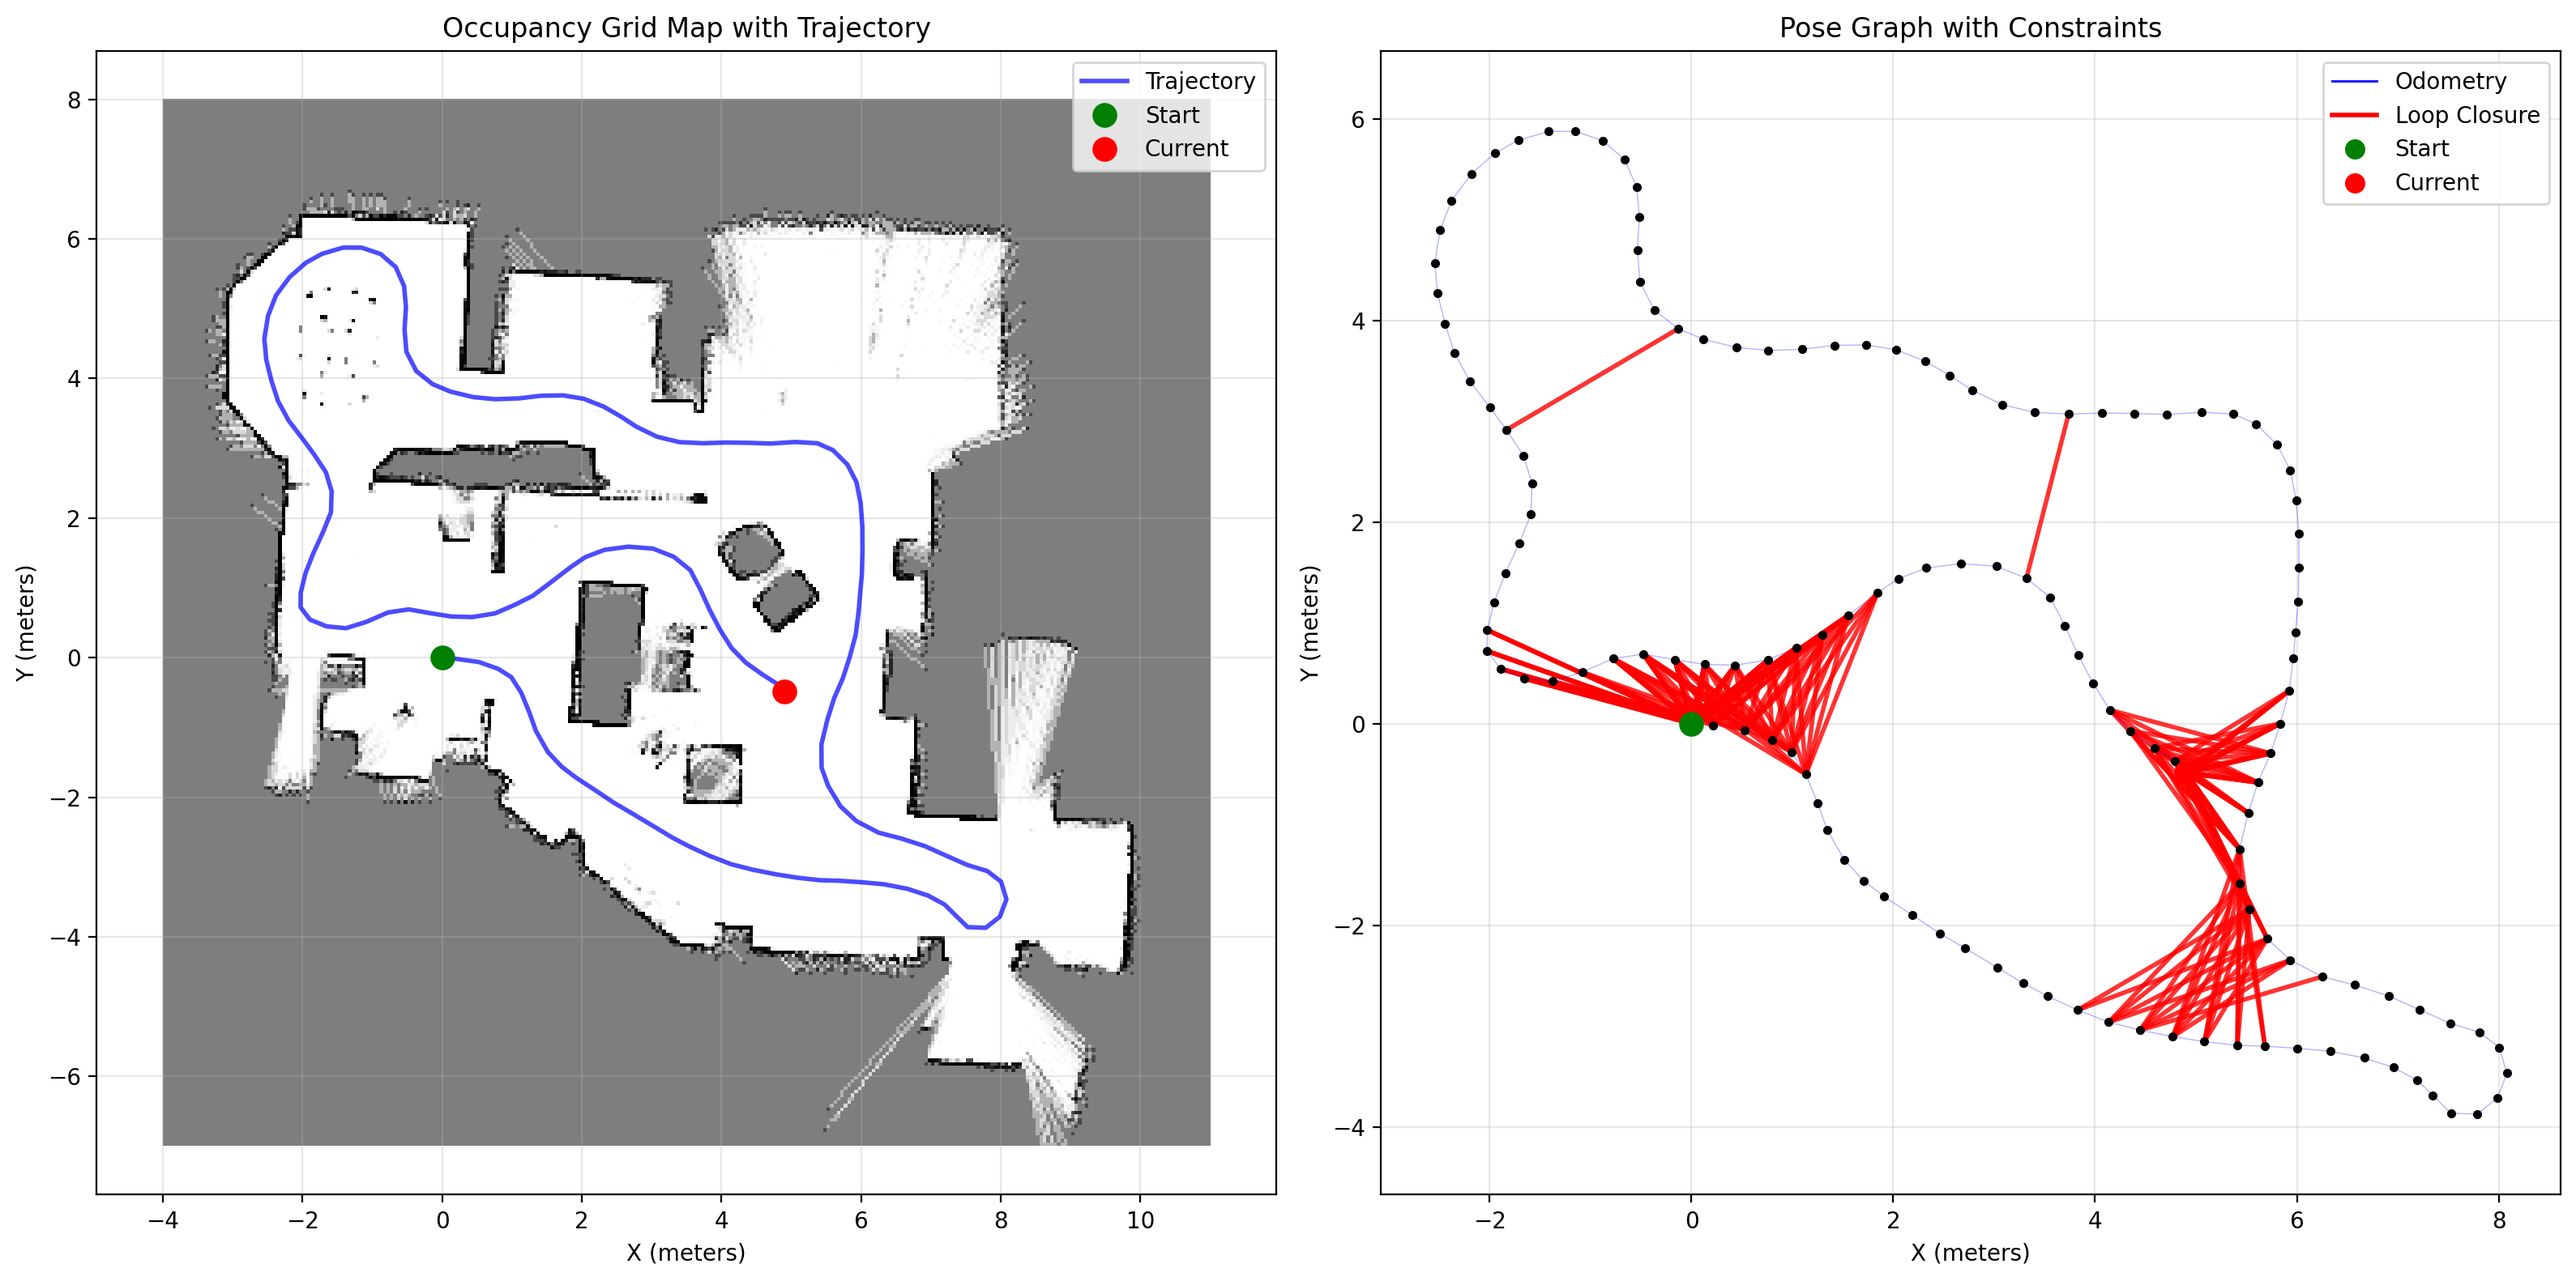
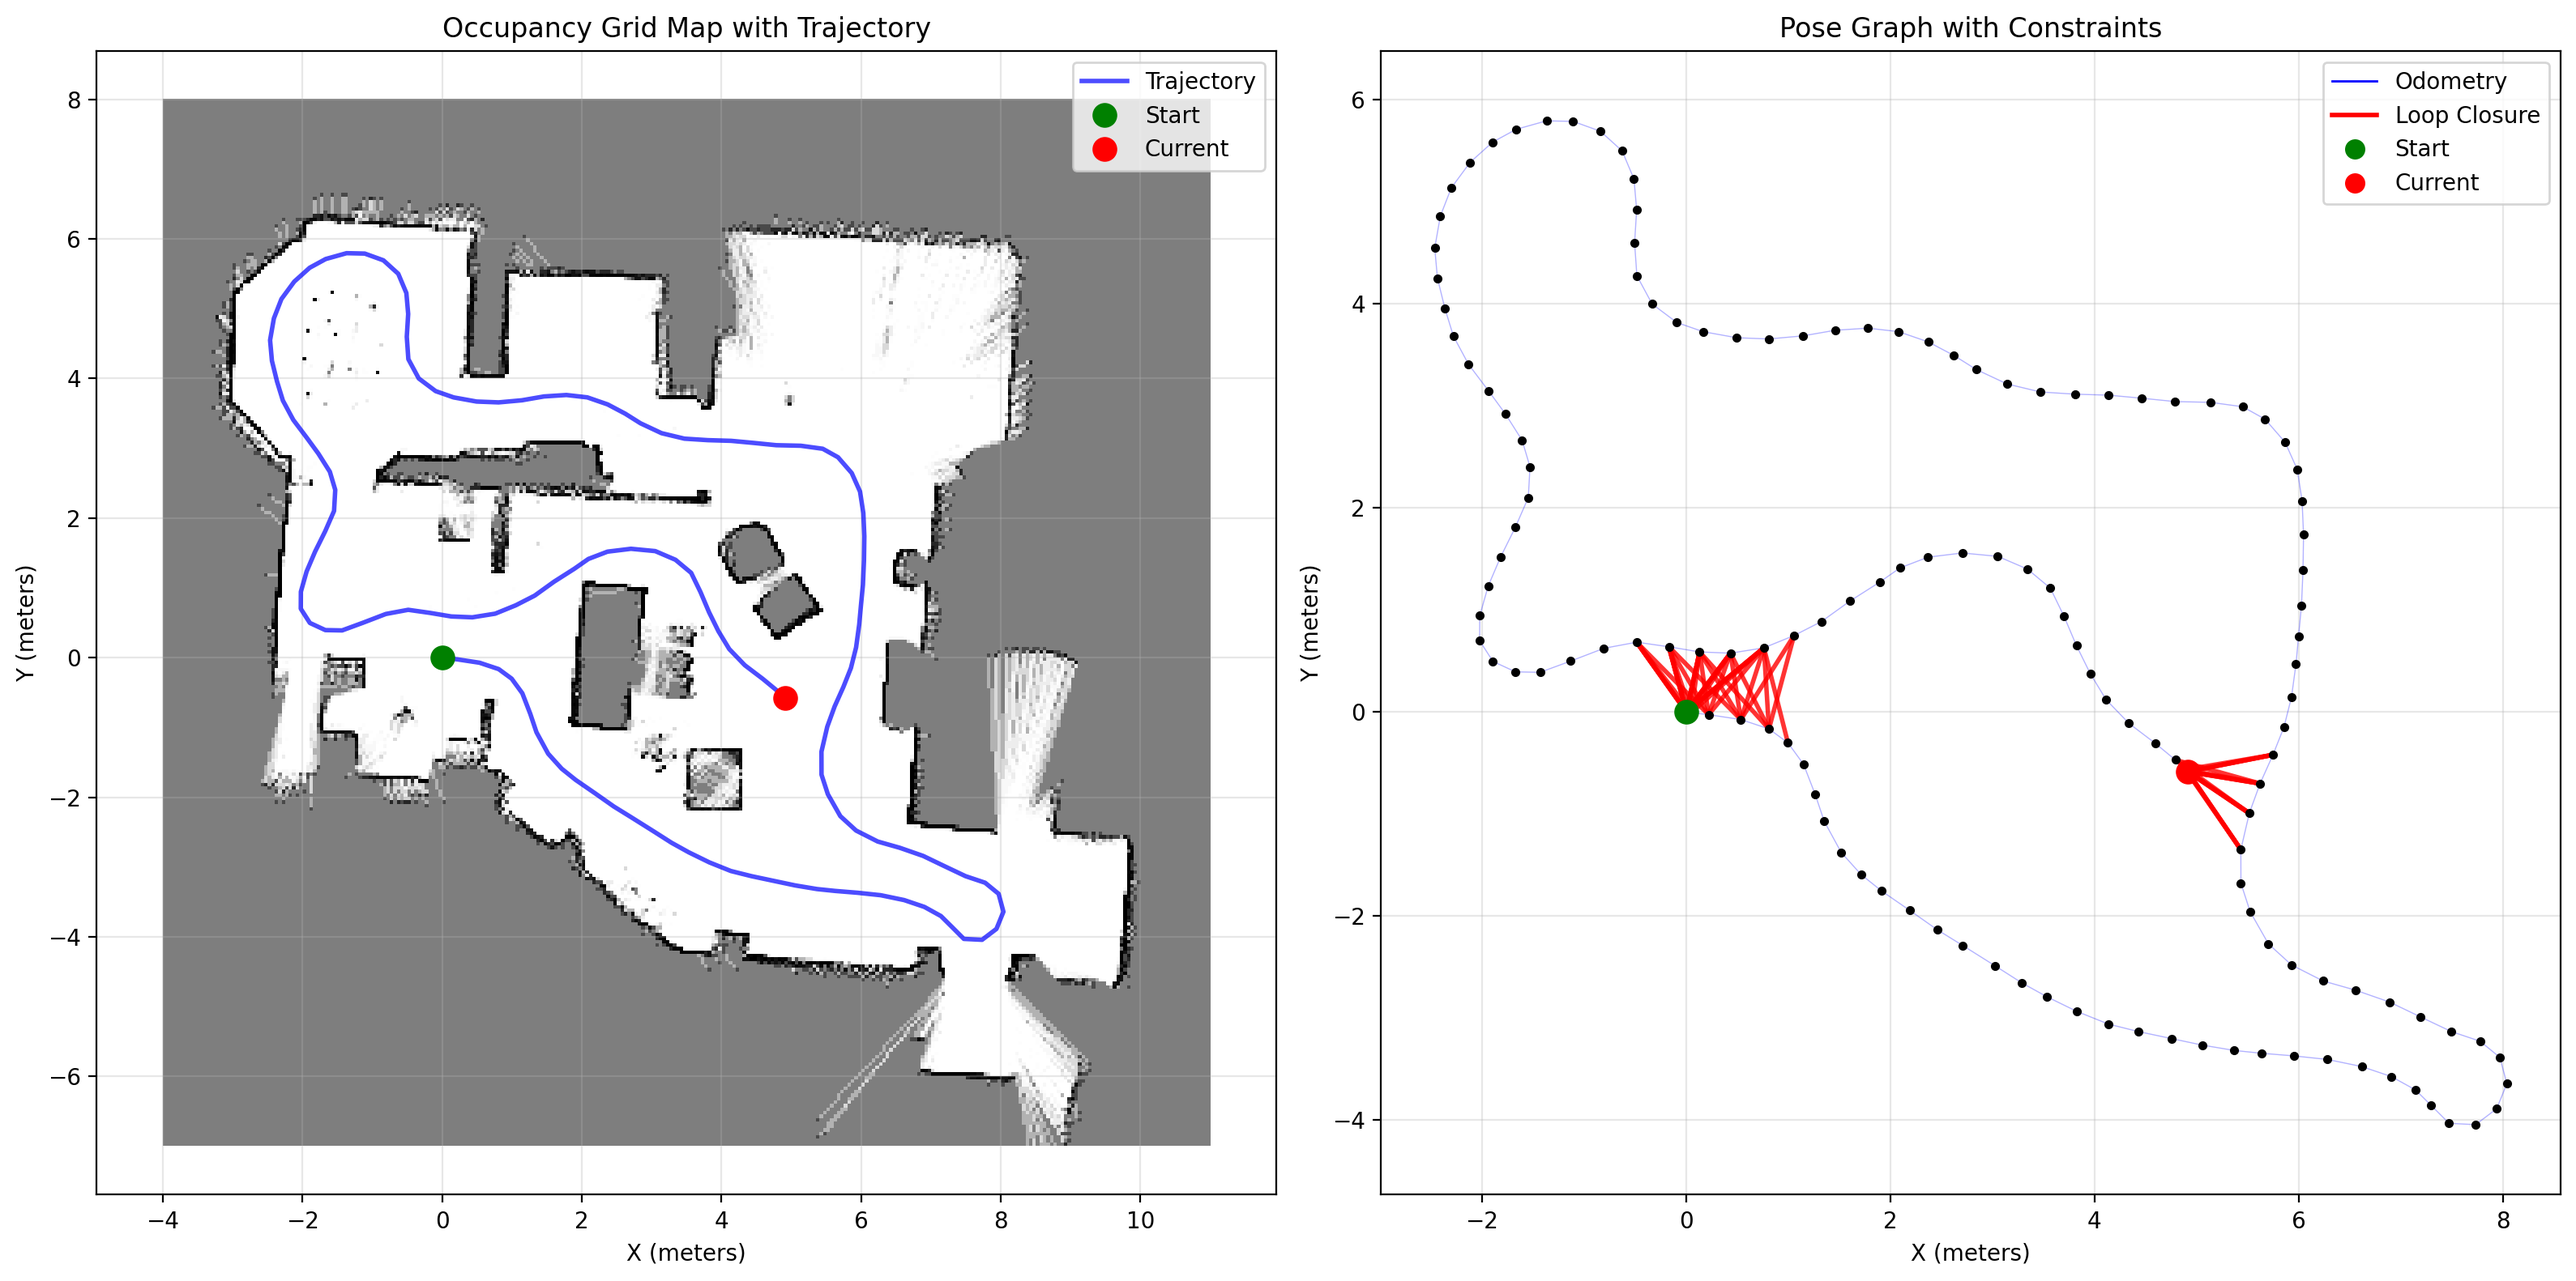
fix loop closure (through wall) issue with change of loop_closure_distance_threshold

diff --git a/desktop_code/slam.py b/desktop_code/slam.py
@@ -361,7 +361,7 @@ class GraphSLAM:
         self.ray_caster = BresenhamRayCast()
         
         # Parameters
-        self.loop_closure_distance_threshold = 2.0  # meters
+        self.loop_closure_distance_threshold = 1.0  # meters (was 2.0)
         self.loop_closure_fitness_threshold = 0.6  # ICP fitness score
         self.min_scans_between_loop_closure = 20  # Avoid checking recent scans
         
